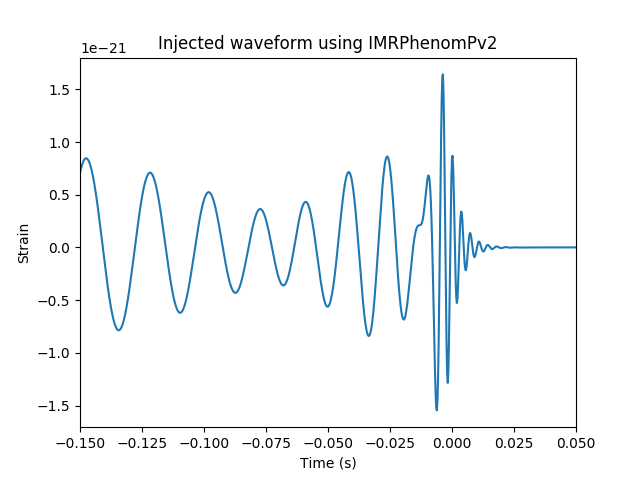
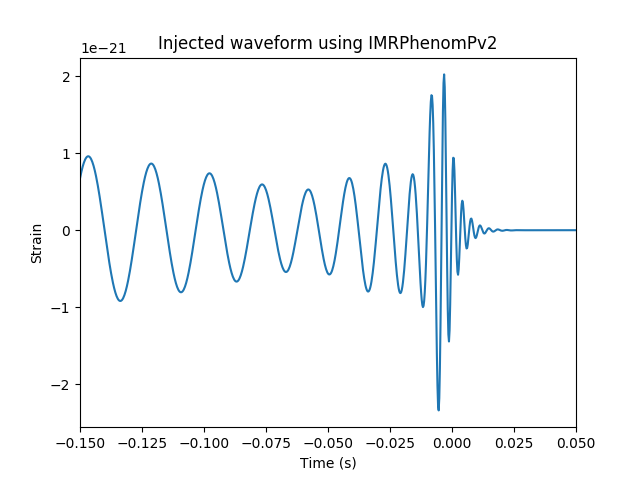
Regenerated injected waveforms and changed some tings

diff --git a/Inference/posteriors.py b/Inference/posteriors.py
@@ -118,26 +118,19 @@ def chi_prec():
 
 ## Function to plot the injected waveform in time domain
 def plot_injected():
-   inc,s1x,s1y,s1z,s2x,s2y,s2z=SimInspiralTransformPrecessingNewInitialConditions(
-                      injected["theta_jn"], #theta_JN
-                      0, #phi_JL <---- could play with this
-                      injected["spin1_polar"], #theta1
-                      injected["spin2_polar"], #theta2
-                      0, #phi12 <-- kind of irrelevant I think
-                      injected["spin1_a"], #chi1
-                      injected["spin2_a"], #chi2
-                      injected["mass1"]*2e30, #m1 in SI
-                      injected["mass2"]*2e30, #m2 in SI
-                      injected["f_min"], ## This needs to be variable
-                      phiRef=0)
+   ## Not worrying about azimuthal angles as they are irrelevant
+   s1z=injected["spin1_a"]*np.cos(injected["spin1_polar"])
+   s1x=injected["spin1_a"]*np.sin(injected["spin1_polar"])
+   s2z=injected["spin2_a"]*np.cos(injected["spin2_polar"])
+   s2x=injected["spin2_a"]*np.sin(injected["spin2_polar"])
    sample_rate = 4096 # Sampling frequency
    hp, hc = get_td_waveform(approximant="IMRPhenomPv2",
                       mass1=injected["mass1"],
                       mass2=injected["mass2"],
-                      spin1y=s1y,spin1x=s1x,spin1z=s1z,
-                      spin2y=s2y,spin2x=s2x,spin2z=s2z,
+                      spin1y=0,spin1x=s1x,spin1z=s1z,
+                      spin2y=0,spin2x=s2x,spin2z=s2z,
                       f_lower=injected["f_min"],
-                      inclination=inc,
+                      inclination=injected["inclination"],
                       distance=injected["distance"],
                       ra=injected["ra"],
                       dec=injected["dec"],

diff --git a/Matching/individualMatch.py b/Matching/individualMatch.py
@@ -26,7 +26,7 @@ psi_1=0.
 psi_2=0.
 
 ## Spin parameters
-s1x=0.
+s1x=0.9
 s1y=0.
 s1z=0.
 s2x=0.
@@ -35,7 +35,7 @@ s2z=0.
 
 ## Spin parameters for 2nd waveform
 s1x_2=0.
-s1y_2=0.
+s1y_2=0.9
 s1z_2=0.
 s2x_2=0.
 s2y_2=0.

diff --git a/Inference/whitened.py b/Inference/whitened.py
@@ -129,7 +129,7 @@ for ifo in ['H1', 'L1']:
         gps_time = sargs['tc']
     except KeyError:
         gps_time = map_values['tc']
-    xmin = -0.15 
+    xmin = -1.0 
     xmax = 0.05
 
     # whitened strain
